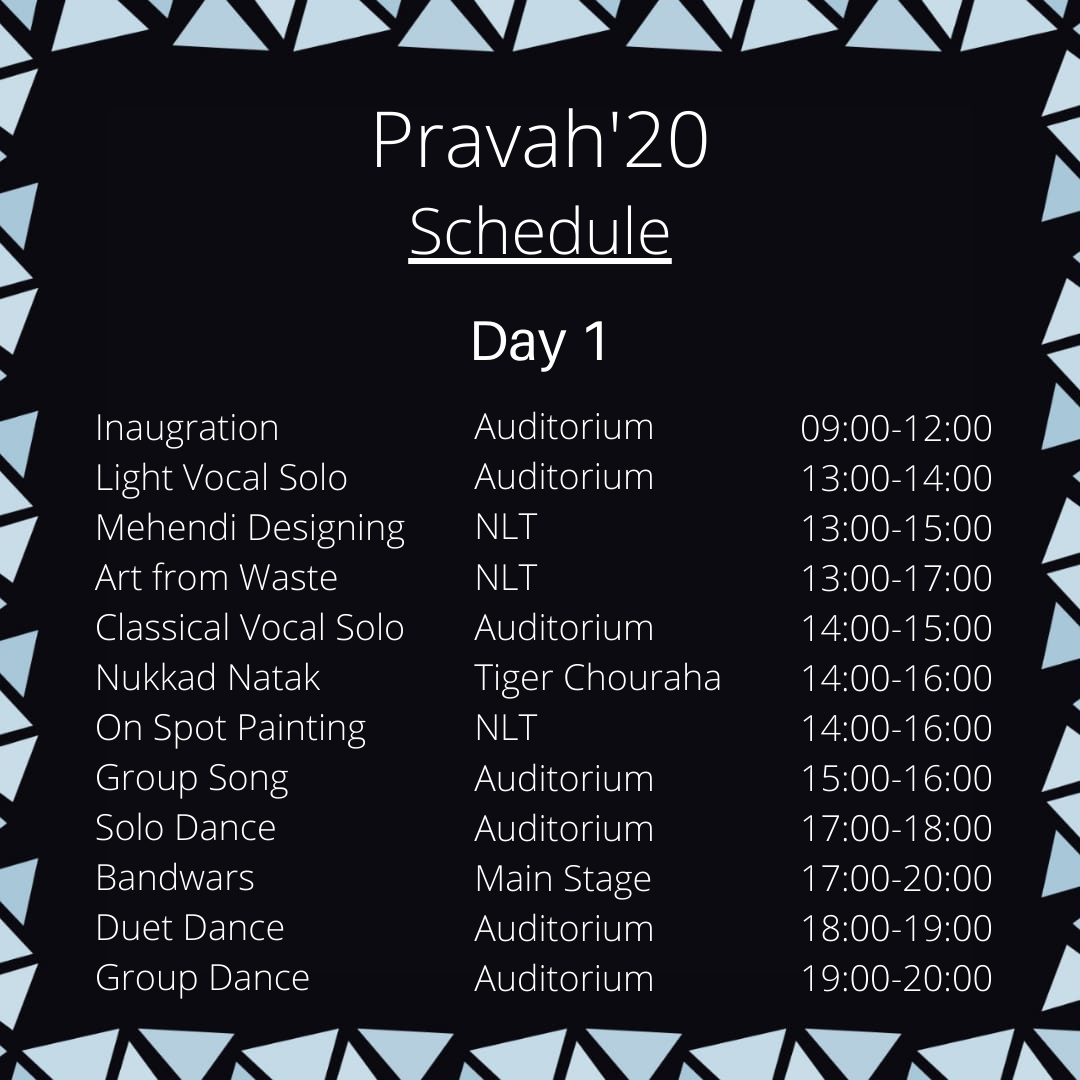
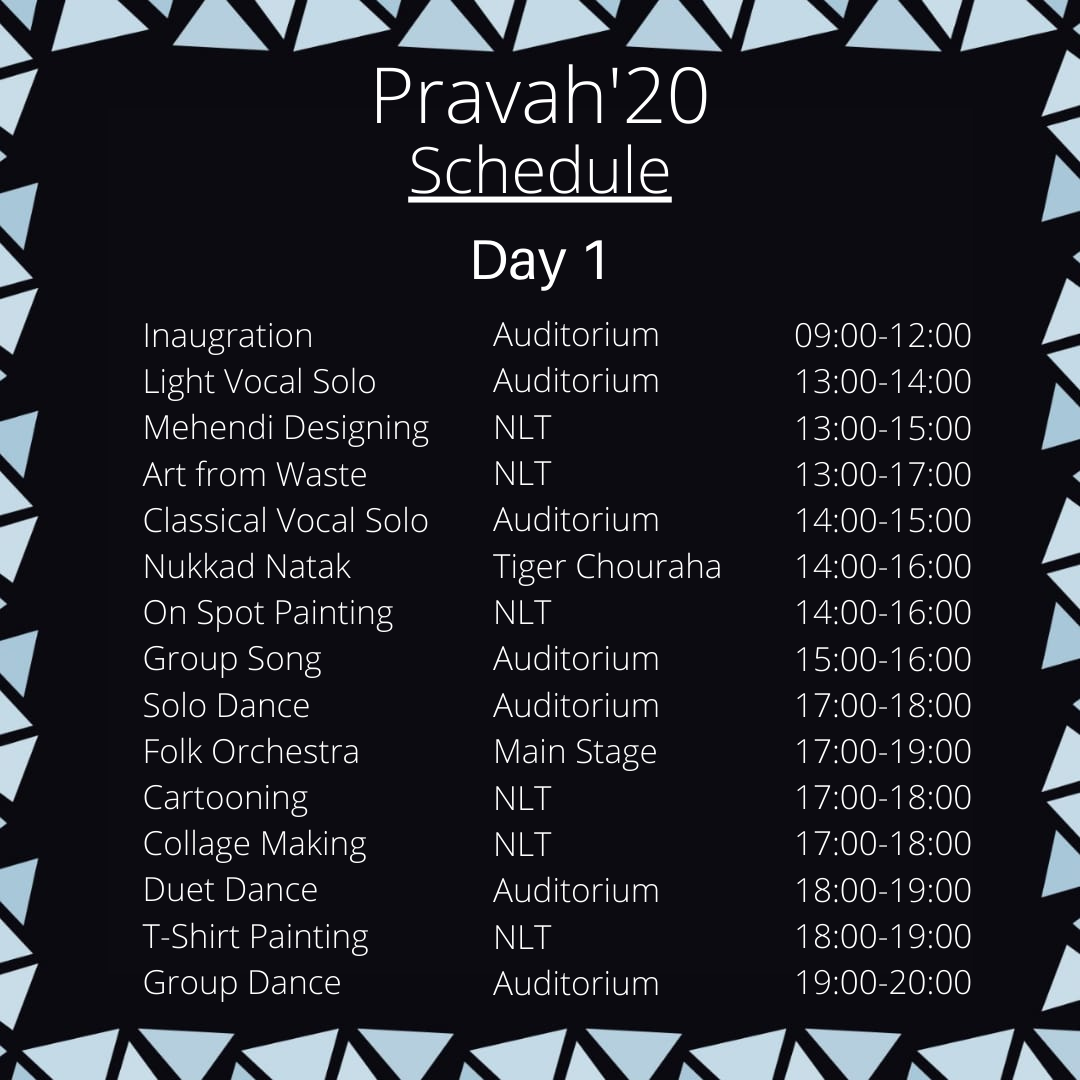
Major Changes

diff --git a/index.html b/index.html
@@ -159,6 +159,19 @@
 							</nav>
 						</div>
 					</div>
+					<div class="alert" role="alert">
+						<marquee>
+							<p style="color: white !important;">
+								Participants of band wars have to bring their own drum kits
+								&nbsp;&nbsp;&nbsp;&nbsp;&nbsp;&nbsp;&nbsp;&nbsp;&nbsp;&nbsp;&nbsp;&nbsp;&nbsp;&nbsp;&nbsp;  
+								Schedule has been been updated
+								&nbsp;&nbsp;&nbsp;&nbsp;&nbsp;&nbsp;&nbsp;&nbsp;&nbsp;&nbsp;&nbsp;&nbsp;&nbsp;&nbsp;&nbsp;
+								Follow our <u><a style="color: white !important; class="alert-link" href="https://m.facebook.com/aktu.pravah/">facebook page</a></u> for regular updates.
+				
+							</p>
+						</marquee>
+					</div>
+					
 				</header>
 			</div>
 			<!-- end:fh5co-header -->
@@ -191,13 +204,27 @@
 									<p>Pravah encompasses lavish history, splendid culture and a profoundly rich heritage of Uttar Pradesh.</p>
 								</blockquote>
 								<p>The dates being 28th-29th Feb 2020, let us all plunge into a world made of the mystique of Uttar Pradesh and its budding talent. The team here at Institute of Engineering and Technology has strived hard to make Pravah a brilliant masterpiece of grandeur and transcendence.<br/><b>Welcome All.</b></p>
+								<blockquote>
+									<div class="row">
+										<div class="col-12 text-center">
+											<p>
+												त्रिवेणी के संगम से लेकर बरेली के बाजार तक <br/>
+												काशी विश्वनाथ से लेकर प्रभु राम के दरबार तक <br/>
+												पंचमहल से लेकर उस ताज के अमर प्यार तक <br/>
+												ये प्रवाह है अटूट प्रेम के सन्देश का... <br/>
+												ये प्रवाह है अतुलनीय उत्तर प्रदेश का.... <br/>
+											</p>
+						
+										</div>
+									</div>
+								</blockquote>
 							</div>
 						</div>
 					</div>
 				</div>
 			</div>
 			<div class=ytvideo>
-				<div class='youtube' id='Ema4fHnWZsg' data-params='?&theme=dark&autohide=2&autoplay=1&modestbranding=1&rel=0&iv_load_policy=3' src="images/thumbnail.png" style='width:100%; height:100%; border: none;'></div>
+				<div class='youtube' id='Z0TmIDBu5jU' data-params='?&theme=dark&autohide=2&autoplay=1&modestbranding=1&rel=0&iv_load_policy=3' src="cover.jpeg" style='width:100%; height:100%; border: none;'></div>
 				<!--iframe src="https://www.youtube.com/embed/wQwuwfgWR9E?rel=0" frameborder="0" allow="autoplay; encrypted-media" allowfullscreen="allowfullscreen" mozallowfullscreen="mozallowfullscreen" msallowfullscreen="msallowfullscreen" oallowfullscreen="oallowfullscreen" webkitallowfullscreen="webkitallowfullscreen"></iframe-->
 			</div>
 

diff --git a/updates.html b/updates.html
@@ -184,6 +184,13 @@
             <!-- end: fh5co-parallax -->
             <div class="container text-center" style="padding-top: 30px; font-size: 20px;">
                 <!-- <h2 style="color: black">Updates</h3> -->
+                    <div class="row">
+                        <div class="col-12">
+                            <div class="alert alert-danger" role="alert">
+                               <p>Theme for Collage Making : &nbsp; नमामि गंगे</p>
+                            </div>
+                        </div>
+                    </div>
                 <div class="row">
                     <div class="col-12">
                         <div class="alert alert-danger" role="alert">
@@ -204,7 +211,7 @@
                 <div class="row">
                     <div class="col-12">
                         <div class="alert alert-danger" role="alert">
-                           <p>Theme for the Fashion Choreography:  अतुल्य उत्तर प्रदेश</p>
+                           <p>Theme for the Fashion Choreography : &nbsp; अतुल्य उत्तर प्रदेश</p>
                         </div>
                     </div>
                 </div>

diff --git a/Events.html b/Events.html
@@ -487,7 +487,7 @@
         <div class=rulespopup>
             <div class="col-md-12">
                 <h1><b>Fashion Choreography</b></h1>
-                <h3>Theme: अतुल्य उत्तर प्रदेश</h3>
+                <h3>Event Theme: &nbsp; अतुल्य उत्तर प्रदेश</h3>
             </div>
             <div class="col-md-8">
                 <h3>Rules and Regulation:
@@ -639,6 +639,7 @@
         <div class=rulespopup>
             <div class="col-md-12">
                 <h1><b>Collage Making</b></h1>
+                <h3>Event Theme: &nbsp; नमामि गंगे</h3>
             </div>
             <div class="col-md-8">
                 <h3>Rules and Regulation:
